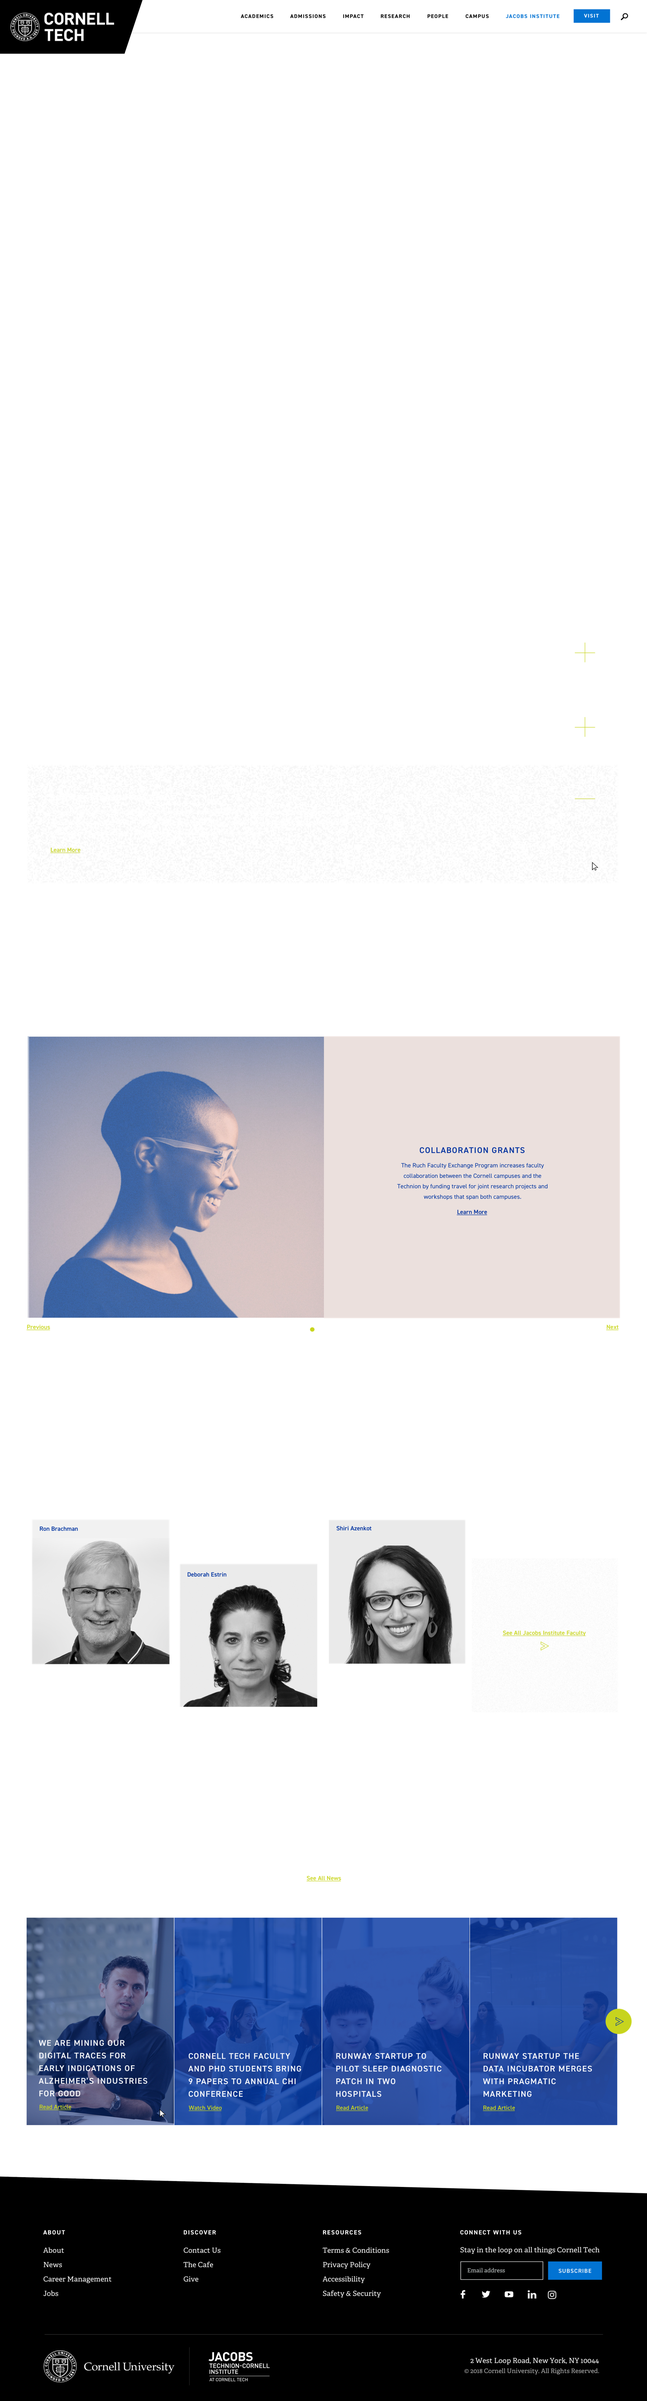
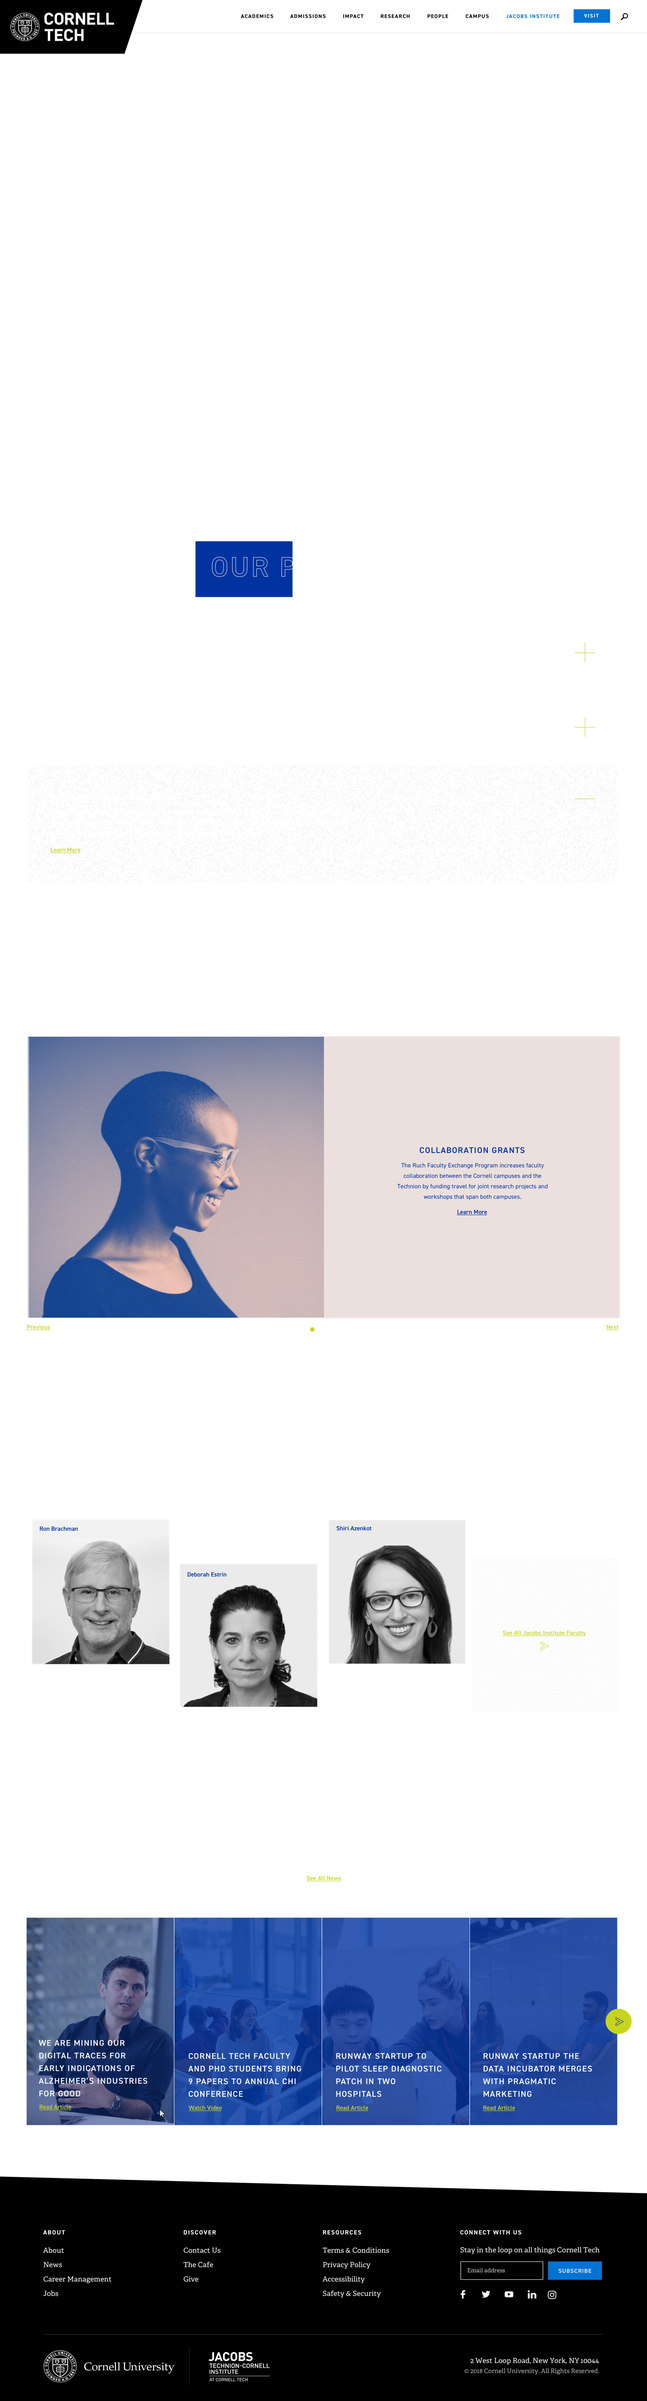
Jacobs Institute V1.2

Changed region(s): [[0.0624, 0.4369, 0.3433, 0.5618], [0.2809, 0.2185, 0.4681, 0.2497], [0.0312, 0.4057, 0.156, 0.4681]]

diff --git a/jacobsinstitute/index.hyperesources/index_hype_generated_script.js b/jacobsinstitute/index.hyperesources/index_hype_generated_script.js
@@ -3,5 +3,5 @@
 (function(){(function k(){function l(a,b,d){var c=!1;null==window[a]&&(null==window[b]?(window[b]=[],window[b].push(k),a=document.getElementsByTagName("head")[0],b=document.createElement("script"),c=h,false==!0&&(c=""),b.type="text/javascript",b.src=c+"/"+d,a.appendChild(b)):window[b].push(k),c=!0);return c}var h="index.hyperesources",c="index",e="index_hype_container";if(false==!1)try{for(var f=document.getElementsByTagName("script"),
 a=0;a<f.length;a++){var b=f[a].src,d=null!=b?b.indexOf("/index_hype_generated_script.js"):-1;if(-1!=d){h=b.substr(0,d);break}}}catch(n){}if(false==!1&&(a=navigator.userAgent.match(/MSIE (\d+\.\d+)/),a=parseFloat(a&&a[1])||null,a=l("HYPE_598","HYPE_dtl_598",!0==(null!=a&&10>a||false==!0)?"HYPE-598.full.min.js":"HYPE-598.thin.min.js"),false==!0&&(a=a||l("HYPE_w_598","HYPE_wdtl_598","HYPE-598.waypoints.min.js")),a))return;f=window.HYPE.documents;
 if(null!=f[c]){b=1;a=c;do c=""+a+"-"+b++;while(null!=f[c]);d=document.getElementsByTagName("div");b=!1;for(a=0;a<d.length;a++)if(d[a].id==e&&null==d[a].getAttribute("HYP_dn")){var b=1,g=e;do e=""+g+"-"+b++;while(null!=document.getElementById(e));d[a].id=e;b=!0;break}if(!1==b)return}b=[];b=[{name:"untitledFunction",source:"function(hypeDocument, element, event) {\t\n\t\t\n\t\t\n\t\t\tmenu = hypeDocument.getElementById('menu');\n\n\twindow.onscroll = function(){\n\t\tvar scroll = window.pageYOffset || (document.body.scrollTop || document.documentElement.scrollTop);\n\t\t\n\t\tvar menuDelta = 100;\n\t\tvar menuFadeOut = 9000;\n\n\t\tif (scroll > menuDelta){\n\t\t\tmenu.classList.add('sticky')\n\t\t}\n\t\tif (scroll <= menuDelta){\n\t\t\tmenu.classList.remove('sticky')\n\t\t}\n\t\tif (scroll > menuFadeOut){\n\t\t\tmenu.classList.remove('sticky')\n\t\t}\n\t};\t\n\t\n\n\n}",identifier:"11"},{name:"untitledFunction2",source:"function(hypeDocument, element, event) {\t\n\t\t\n\t\t\tmenu = hypeDocument.getElementById('menub');\n\n\twindow.onscroll = function(){\n\t\tvar scroll = window.pageYOffset || (document.body.scrollTop || document.documentElement.scrollTop);\n\t\t\n\t\tvar menubDelta = 100;\n\t\tvar menubFadeOut = 14000;\n\n\t\tif (scroll > menubDelta){\n\t\t\tmenub.classList.add('sticky')\n\t\t}\n\t\tif (scroll <= menubDelta){\n\t\t\tmenub.classList.remove('sticky')\n\t\t}\n\t\tif (scroll > menubFadeOut){\n\t\t\tmenub.classList.remove('sticky')\n\t\t}\n\t};\t\n}",identifier:"186"},{name:"untitledFunction3",source:"function(hypeDocument, element, event) {\t\n\tlockLogo = hypeDocument.getElementById('lockLogo');\n\n\twindow.onscroll = function(){\n\tvar scroll3 = window.pageYOffset || (document.body.scrollTop || document.documentElement.scrollTop);\n        \n        var menuDelta3 = 1233;\n        var menuRelease = 4178;\n\n        if (scroll3 > menuDelta3){\n            lockLogo.classList.add('sticky3')\n        }\n        if (scroll3 <= menuDelta3){\n            lockLogo.classList.remove('sticky3')\n            lockLogo.classList.remove('stickyRelease')\n        }\n        \n        if (scroll3 <= menuRelease){\n            lockLogo.classList.remove('stickyRelease')\n        }\n        \n        if (scroll3 > menuRelease){\n            lockLogo.classList.remove('sticky3')\n            lockLogo.classList.add('stickyRelease')\n        }\n     };\n}",identifier:"563"}];d={};g={};for(a=0;a<b.length;a++)try{g[b[a].identifier]=b[a].name,d[b[a].name]=eval("(function(){return "+b[a].source+"})();")}catch(m){window.console&&window.console.log(m),d[b[a].name]=
-function(){}}a=new HYPE_598(c,e,{"3":{p:1,n:"Meet%20Our%20People%20Who%20We%20Are.png",g:"546",o:true,t:"@1x"},"12":{p:1,n:"Flag%20Icon.png",g:"544",o:true,t:"@1x"},"21":{p:1,n:"Man.jpg",g:"579",o:true,t:"@1x"},"4":{p:1,n:"Meet%20Our%20People%20Who%20We%20Are_2x.png",g:"546",o:true,t:"@2x"},"30":{n:"Video.mp4",g:"589",t:"video/mp4"},"13":{p:1,n:"Flag%20Icon_2x.png",g:"544",o:true,t:"@2x"},"5":{p:1,n:"Navigation.png",g:"524",o:true,t:"@1x"},"22":{p:1,n:"Man_2x.jpg",g:"579",o:true,t:"@2x"},"6":{p:1,n:"Navigation_2x.png",g:"524",o:true,t:"@2x"},"14":{p:1,n:"Jacobs%20T%20Blue_w%20lockup.png",g:"552",t:"@1x"},"7":{p:1,n:"Intro.png",g:"532",o:true,t:"@1x"},"23":{p:1,n:"Newscard_FirstCard.png",g:"582",o:true,t:"@1x"},"8":{p:1,n:"Intro_2x.png",g:"532",o:true,t:"@2x"},"15":{p:1,n:"StickyNav.png",g:"535",o:true,t:"@1x"},"24":{p:1,n:"Newscard_FirstCard_2x.png",g:"582",o:true,t:"@2x"},"9":{p:1,n:"Woman.png",g:"557",o:true,t:"@1x"},"16":{p:1,n:"StickyNav_2x.png",g:"535",o:true,t:"@2x"},"25":{p:1,n:"Man.png",g:"530",o:true,t:"@1x"},"17":{p:1,n:"Pioners%20In%20Amereica.png",g:"542",o:true,t:"@1x"},"26":{p:1,n:"Man_2x.png",g:"530",o:true,t:"@2x"},"18":{p:1,n:"Pioners%20In%20Amereica_2x.png",g:"542",o:true,t:"@2x"},"27":{p:1,n:"Jacobs%20Institute%201440.png",g:"564",o:true,t:"@1x"},"19":{p:1,n:"Stocksy_comp_584112.jpg",g:"576",o:true,t:"@1x"},"28":{p:1,n:"Jacobs%20Institute%201440_2x.png",g:"564",o:true,t:"@2x"},"-1":{n:"PIE.htc"},"29":{n:"Untitled_Small.mov",g:"589",t:"video/quicktime"},"-2":{n:"blank.gif"},"10":{p:1,n:"Woman_2x.png",g:"557",o:true,t:"@2x"},"0":{p:1,n:"Texture.png",g:"550",o:true,t:"@1x"},"1":{p:1,n:"Texture_2x.png",g:"550",o:true,t:"@2x"},"11":{p:1,n:"Bar.png",g:"541",t:"@1x"},"2":{p:1,n:"Pasted.jpg",g:"567",o:true,t:"@1x"},"20":{p:1,n:"Stocksy_comp_584112_2x.jpg",g:"576",o:true,t:"@2x"}},h,[],d,[{n:"Homepage",o:"1",X:[0]}],[{A:{a:[{p:4,h:"11"},{p:4,h:"563"}]},o:"3",p:"600px",cA:false,Y:1440,Z:5390,c:"#FFFFFF",L:[],bY:1,d:1440,U:{},T:{"309":{i:"309",n:"Navigation",z:0,b:[],a:[],f:30},kTimelineDefaultIdentifier:{i:"kTimelineDefaultIdentifier",n:"Main Timeline",z:21.06,b:[],a:[{y:0,p:1,i:"Video Track",z:21.06,o:"625",f:"a"}],f:30},"555":{i:"555",n:"CardHover",z:0.04,b:[],a:[{f:"c",y:0,z:0.04,i:"d",e:428,s:412,o:"599"},{f:"c",y:0,z:0.04,i:"b",e:-16,s:0,o:"599"},{f:"c",y:0,z:0.04,i:"cR",e:1,s:0.90000000000000002,o:"602"},{f:"c",y:0,z:0.04,i:"cQ",e:1,s:0.90000000000000002,o:"602"},{f:"c",y:0,z:0.04,i:"e",e:1,s:0,o:"601"},{y:0,i:"cY",s:"0",z:0,o:"599",f:"c"},{f:"c",y:0,z:0.04,i:"b",e:207,s:220,o:"598"},{f:"c",y:0,z:0.04,i:"e",e:1,s:0,o:"603"},{f:"c",y:0,z:0.04,i:"e",e:1,s:0,o:"604"},{f:"c",y:0,z:0.04,i:"b",e:17,s:38,o:"600"},{f:"c",y:0,z:0,i:"e",e:1,s:0,o:"599"},{y:0,i:"e",s:1,z:0,o:"599",f:"c"},{y:0.04,i:"d",s:428,z:0,o:"599",f:"c"},{y:0.04,i:"cR",s:1,z:0,o:"602",f:"c"},{y:0.04,i:"cQ",s:1,z:0,o:"602",f:"c"},{y:0.04,i:"b",s:-16,z:0,o:"599",f:"c"},{y:0.04,i:"b",s:207,z:0,o:"598",f:"c"},{y:0.04,i:"e",s:1,z:0,o:"601",f:"c"},{y:0.04,i:"b",s:17,z:0,o:"600",f:"c"},{y:0.04,i:"e",s:1,z:0,o:"603",f:"c"},{y:0.04,i:"e",s:1,z:0,o:"604",f:"c"}],f:30},"560":{i:"560",n:"Man Woman",z:0.07,b:[],a:[{f:"c",y:0.03,z:0.04,i:"e",e:0,s:1,o:"610"},{f:"c",y:0.03,z:0.04,i:"e",e:1,s:0,o:"611"},{y:0.07,i:"e",s:1,z:0,o:"611",f:"c"},{y:0.07,i:"e",s:0,z:0,o:"610",f:"c"}],f:30},"585":{i:"585",n:"News Card Hover",z:0.02,b:[],a:[{f:"c",y:0,z:0.02,i:"e",e:0.5,s:0.20000000000000001,o:"620"},{y:0.02,i:"e",s:0.5,z:0,o:"620",f:"c"}],f:30}},bZ:180,O:["625","591","613","612","614","615","616","607","595","611","609","593","594","610","617","606","602","599","604","601","597","605","600","596","592","598","603","608","618","619","623","620","624","621","622"],n:"Untitled Layout","_":0,v:{"602":{h:"552",p:"no-repeat",x:"visible",a:-19,q:"100% 100%",b:-245,j:"absolute",dB:"img",z:1,k:"div",bF:"601",d:673,c:503,cQ:0.94999999999999996,e:0.036886867088607597,r:"inline",cR:0.94999999999999996},"621":{k:"div",x:"hidden",c:329,d:460,z:4,a:59,j:"absolute",b:4315},"594":{h:"567",p:"no-repeat",x:"visible",a:37,q:"100% 100%",b:0,j:"absolute",bF:"593",z:2,k:"div",dB:"img",d:733,c:1440,r:"inline"},"616":{b:7,z:7,K:"None",c:99,L:"None",d:19,aS:3,M:0,e:0.59999999999999998,bD:"none",N:0,aT:3,dB:"button",O:0,g:"#333333",aU:3,P:0,bF:"612",aV:3,j:"absolute",k:"div",aI:4,aJ:4,aK:4,X:-0.32954499999999998,aL:4,A:"#A0A0A0",Y:19,B:"#A0A0A0",Z:"break-word",r:"inline",C:"#A0A0A0",D:"#A0A0A0",t:11,aA:{a:[{p:0}]},F:"center",v:"normal",G:"#FFFFFF",aP:"pointer",w:"Concept B",x:"visible",I:"None",a:726,y:"preserve",J:"None"},"603":{h:"546",p:"no-repeat",x:"visible",a:27,q:"100% 100%",b:375,j:"absolute",cY:"0",z:2,k:"div",dB:"img",d:12,bF:"597",c:164,e:0,r:"inline"},"622":{h:"582",p:"no-repeat",x:"visible",a:32,q:"100% 100%",b:274,j:"absolute",dB:"img",z:3,k:"div",bF:"621",d:156,c:233,r:"inline",e:1},"595":{h:"564",p:"no-repeat",x:"visible",a:0,q:"100% 100%",b:40,j:"absolute",dB:"img",z:2,k:"div",c:1442,d:5351,r:"inline",cQ:1,cR:1},"617":{c:32,d:31,I:"None",J:"None",K:"None",L:"None",aP:"pointer",M:0,N:0,A:"#D8DDE4",x:"visible",aA:{a:[{p:0}]},B:"#D8DDE4",j:"absolute",O:0,dB:"button",z:16,C:"#D8DDE4",D:"#D8DDE4",k:"div",P:0,a:1362,b:267},"604":{h:"550",p:"no-repeat",x:"visible",a:0,q:"100% 100%",b:-16,j:"absolute",dB:"img",z:8,k:"div",bF:"597",d:430,c:333,r:"inline",e:0},"623":{c:346,d:530,I:"None",J:"None",K:"None",g:"#0133A0",L:"None",M:0,N:0,bF:"621",A:"#D8DDE4",x:"visible",j:"absolute",B:"#D8DDE4",k:"div",O:0,C:"#D8DDE4",z:1,P:0,D:"#D8DDE4",a:-18,b:-16},"596":{c:1440,d:4553,I:"None",J:"None",K:"None",g:"#0133A0",L:"None",M:0,N:0,A:"#D8DDE4",x:"visible",j:"absolute",B:"#D8DDE4",P:0,k:"div",C:"#D8DDE4",z:1,O:0,D:"#D8DDE4",a:0,b:838},"610":{h:"530",p:"no-repeat",x:"visible",a:60,q:"100% 100%",b:33,j:"absolute",dB:"img",z:1,k:"div",bF:"609",d:715,c:549,r:"inline",e:1},"618":{h:"576",p:"no-repeat",x:"visible",a:-30,q:"100% 100%",b:-5,j:"absolute",bF:"619",z:1,k:"div",dB:"img",d:634,c:950,r:"inline"},"605":{h:"541",p:"no-repeat",x:"visible",a:57,q:"100% 100%",b:726,j:"absolute",dB:"img",z:14,k:"div",c:1321,d:414,r:"inline"},"624":{c:326,d:458,I:"None",J:"None",K:"None",L:"None",M:0,N:0,bF:"621",A:"#D8DDE4",x:"visible",j:"absolute",B:"#D8DDE4",k:"div",O:0,C:"#D8DDE4",z:4,P:0,D:"#D8DDE4",aC:{a:[{b:"585",p:3,z:true,symbolOid:"2"}]},a:0,aD:{a:[{b:"585",p:3,z:false,symbolOid:"2"}]},b:0},"597":{k:"div",x:"visible",c:331,d:414,z:17,a:58,j:"absolute",b:726},"611":{h:"557",p:"no-repeat",x:"visible",a:0,q:"100% 100%",b:0,j:"absolute",cY:"0",z:2,k:"div",dB:"img",d:776,bF:"609",c:600,e:0,r:"inline"},"619":{c:659,d:626,I:"Solid",J:"Solid",K:"Solid",L:"Solid",M:1,N:1,A:"#FFFFFF",x:"hidden",j:"absolute",B:"#FFFFFF",k:"div",O:1,C:"#FFFFFF",z:3,P:1,D:"#FFFFFF",a:62,b:2350},"606":{h:"532",p:"no-repeat",x:"visible",a:190,q:"100% 100%",b:344,j:"absolute",dB:"img",z:11,k:"div",c:430,d:205,r:"inline"},"625":{aR:true,x:"visible",bE:"589",a:-87,b:-346,j:"absolute",bF:"593",c:1786,k:"video",z:5,d:1116,aO:false,aQ:true,aH:true},"598":{h:"542",p:"no-repeat",x:"visible",a:27,q:"100% 100%",b:220,j:"absolute",bF:"597",z:3,k:"div",dB:"img",d:152,c:271,r:"inline"},"612":{x:"visible",k:"div",c:1440,d:40,z:13,e:1,a:0,j:"absolute",b:0},"607":{h:"524",p:"no-repeat",x:"visible",a:-1,q:"100% 100%",b:40,j:"absolute",dB:"img",z:15,k:"div",c:1443,d:124,r:"inline"},"591":{h:"535",p:"no-repeat",x:"visible",i:"menu",q:"100% 100%",b:-95,a:1,j:"absolute",z:19,k:"div",dB:"img",d:73,c:1440,r:"inline",aP:"pointer"},"599":{c:329,d:412,I:"Solid",cY:"0",e:0,J:"Solid",K:"Solid",g:"#0133A0",L:"Solid",M:1,N:1,bF:"597",A:"#FFFFFF",x:"visible",j:"absolute",B:"#FFFFFF",k:"div",O:1,C:"#FFFFFF",z:1,P:1,D:"#FFFFFF",a:0,b:-32},"613":{c:1440,d:40,I:"None",J:"None",K:"None",g:"#D3D5D7",L:"None",M:0,N:0,bF:"612",A:"#D8DDE4",x:"visible",j:"absolute",B:"#D8DDE4",k:"div",O:0,C:"#D8DDE4",z:1,P:0,D:"#D8DDE4",a:0,b:0},"600":{h:"544",p:"no-repeat",x:"visible",a:24,q:"100% 100%",b:38,j:"absolute",bF:"597",z:7,k:"div",dB:"img",d:52,c:49,r:"inline"},"608":{h:"552",p:"no-repeat",x:"visible",a:354,q:"100% 100%",b:1265,j:"absolute",i:"lockLogo",z:20,k:"div",dB:"img",d:938,c:728,r:"inline",e:0.050000000000000003},"592":{c:329,d:250,I:"None",J:"None",K:"None",L:"None",M:0,N:0,A:"#D8DDE4",x:"visible",j:"absolute",B:"#D8DDE4",k:"div",O:0,C:"#D8DDE4",z:18,P:0,D:"#D8DDE4",aC:{a:[{b:"555",p:3,z:true,symbolOid:"2"}]},a:58,aD:{a:[{b:"555",p:3,z:false,symbolOid:"2"}]},b:888},"614":{G:"#CA3725",aU:8,aV:8,r:"inline",s:"Helvetica,Arial,Sans-Serif",t:12,Z:"break-word",v:"bold",w:"PROTOTYPE NAVIGATION<br>",bF:"612",A:"#CA3725",x:"visible",yy:"nowrap",B:"#CA3725",y:"preserve",j:"absolute",C:"#CA3725",z:5,k:"div",D:"#CA3725",aS:8,aT:8,a:34,b:5},"601":{x:"hidden",k:"div",c:330,d:414,z:4,e:0,a:1,j:"absolute",bF:"597",b:0},"609":{k:"div",x:"visible",c:609,d:776,z:12,a:618,j:"absolute",b:112},"620":{h:"579",p:"no-repeat",x:"visible",a:-48,q:"100% 100%",b:0,j:"absolute",dB:"img",z:2,k:"div",bF:"621",d:465,c:698,r:"inline",e:0.20000000000000001},"593":{k:"div",x:"hidden",c:1518,d:729,z:10,r:"inline",a:-39,j:"absolute",b:115},"615":{b:7,z:6,K:"None",c:99,L:"None",d:19,aS:3,M:0,e:0.29999999999999999,bD:"none",N:0,aT:3,dB:"button",O:0,g:"#333333",aU:3,P:0,bF:"612",aV:3,j:"absolute",aI:4,k:"div",aJ:4,aK:4,X:-0.32954499999999998,aL:4,A:"#A0A0A0",Y:19,B:"#A0A0A0",Z:"break-word",r:"inline",C:"#A0A0A0",D:"#A0A0A0",t:11,F:"center",v:"normal",G:"#FFFFFF",aP:"pointer",w:"Concept A<br><br>",x:"visible",I:"None",a:611,y:"preserve",J:"None"}}}],{},g,{},null,false,true,-1,true,true,false,true);f[c]=a.API;document.getElementById(e).setAttribute("HYP_dn",
+function(){}}a=new HYPE_598(c,e,{"3":{p:1,n:"Meet%20Our%20People%20Who%20We%20Are.png",g:"546",o:true,t:"@1x"},"12":{p:1,n:"Flag%20Icon.png",g:"544",o:true,t:"@1x"},"21":{p:1,n:"Man.jpg",g:"579",o:true,t:"@1x"},"4":{p:1,n:"Meet%20Our%20People%20Who%20We%20Are_2x.png",g:"546",o:true,t:"@2x"},"30":{p:1,n:"Jacobs%20Institute%201440_2x.png",g:"564",o:true,t:"@2x"},"13":{p:1,n:"Flag%20Icon_2x.png",g:"544",o:true,t:"@2x"},"5":{p:1,n:"Navigation.png",g:"524",o:true,t:"@1x"},"22":{p:1,n:"Man_2x.jpg",g:"579",o:true,t:"@2x"},"6":{p:1,n:"Navigation_2x.png",g:"524",o:true,t:"@2x"},"31":{p:1,n:"deb.jpg",g:"591",o:true,t:"@1x"},"14":{p:1,n:"Jacobs%20T%20Blue_w%20lockup.png",g:"552",t:"@1x"},"7":{p:1,n:"Intro.png",g:"532",o:true,t:"@1x"},"23":{p:1,n:"Newscard_FirstCard.png",g:"582",o:true,t:"@1x"},"32":{p:1,n:"deb_2x.jpg",g:"591",o:true,t:"@2x"},"15":{p:1,n:"StickyNav.png",g:"535",o:true,t:"@1x"},"8":{p:1,n:"Intro_2x.png",g:"532",o:true,t:"@2x"},"24":{p:1,n:"Newscard_FirstCard_2x.png",g:"582",o:true,t:"@2x"},"9":{p:1,n:"Woman.png",g:"557",o:true,t:"@1x"},"33":{p:1,n:"Estrin_Deborah_007hr5-1.jpg",g:"593",o:true,t:"@1x"},"16":{p:1,n:"StickyNav_2x.png",g:"535",o:true,t:"@2x"},"25":{p:1,n:"Man.png",g:"530",o:true,t:"@1x"},"34":{p:1,n:"Estrin_Deborah_007hr5-1_2x.jpg",g:"593",o:true,t:"@2x"},"17":{p:1,n:"Pioners%20In%20Amereica.png",g:"542",o:true,t:"@1x"},"26":{p:1,n:"Man_2x.png",g:"530",o:true,t:"@2x"},"35":{p:1,n:"deb%20text.png",g:"595",o:true,t:"@1x"},"18":{p:1,n:"Pioners%20In%20Amereica_2x.png",g:"542",o:true,t:"@2x"},"27":{n:"Untitled_Small.mov",g:"589",t:"video/quicktime"},"36":{p:1,n:"deb%20text_2x.png",g:"595",o:true,t:"@2x"},"19":{p:1,n:"Stocksy_comp_584112.jpg",g:"576",o:true,t:"@1x"},"28":{n:"Video.mp4",g:"589",t:"video/mp4"},"-1":{n:"PIE.htc"},"29":{p:1,n:"Jacobs%20Institute%201440.png",g:"564",o:true,t:"@1x"},"-2":{n:"blank.gif"},"10":{p:1,n:"Woman_2x.png",g:"557",o:true,t:"@2x"},"0":{p:1,n:"Texture.png",g:"550",o:true,t:"@1x"},"1":{p:1,n:"Texture_2x.png",g:"550",o:true,t:"@2x"},"11":{p:1,n:"Bar.png",g:"541",t:"@1x"},"2":{p:1,n:"Pasted.jpg",g:"567",o:true,t:"@1x"},"20":{p:1,n:"Stocksy_comp_584112_2x.jpg",g:"576",o:true,t:"@2x"}},h,[],d,[{n:"Homepage",o:"1",X:[0]}],[{A:{a:[{p:4,h:"11"},{p:4,h:"563"}]},o:"3",p:"600px",cA:false,Y:1440,Z:5390,c:"#FFFFFF",L:[],bY:1,d:1440,U:{},T:{"602":{i:"602",n:"Deb",z:0.03,b:[],a:[{y:0,i:"cY",s:"0",z:0,o:"638",f:"c"},{f:"c",y:0,z:0.03,i:"e",e:1,s:0,o:"638"},{y:0.03,i:"e",s:1,z:0,o:"638",f:"c"}],f:30},"309":{i:"309",n:"Navigation",z:0,b:[],a:[],f:30},kTimelineDefaultIdentifier:{i:"kTimelineDefaultIdentifier",n:"Main Timeline",z:21.06,b:[],a:[{y:0,p:1,i:"Video Track",z:21.06,o:"630",f:"a"}],f:30},"555":{i:"555",n:"CardHover",z:0.04,b:[],a:[{f:"c",y:0,z:0.04,i:"d",e:428,s:412,o:"625"},{f:"c",y:0,z:0.04,i:"b",e:-16,s:0,o:"625"},{f:"c",y:0,z:0.04,i:"cR",e:1,s:0.90000000000000002,o:"627"},{f:"c",y:0,z:0.04,i:"cQ",e:1,s:0.90000000000000002,o:"627"},{f:"c",y:0,z:0.04,i:"e",e:1,s:0,o:"626"},{y:0,i:"cY",s:"0",z:0,o:"625",f:"c"},{f:"c",y:0,z:0.04,i:"b",e:207,s:220,o:"621"},{f:"c",y:0,z:0.04,i:"e",e:1,s:0,o:"624"},{f:"c",y:0,z:0.04,i:"e",e:1,s:0,o:"623"},{f:"c",y:0,z:0.04,i:"b",e:17,s:38,o:"622"},{f:"c",y:0,z:0,i:"e",e:1,s:0,o:"625"},{y:0,i:"e",s:1,z:0,o:"625",f:"c"},{y:0.04,i:"d",s:428,z:0,o:"625",f:"c"},{y:0.04,i:"cR",s:1,z:0,o:"627",f:"c"},{y:0.04,i:"cQ",s:1,z:0,o:"627",f:"c"},{y:0.04,i:"b",s:-16,z:0,o:"625",f:"c"},{y:0.04,i:"b",s:207,z:0,o:"621",f:"c"},{y:0.04,i:"e",s:1,z:0,o:"626",f:"c"},{y:0.04,i:"b",s:17,z:0,o:"622",f:"c"},{y:0.04,i:"e",s:1,z:0,o:"624",f:"c"},{y:0.04,i:"e",s:1,z:0,o:"623",f:"c"}],f:30},"560":{i:"560",n:"Man Woman",z:0.07,b:[],a:[{f:"c",y:0.03,z:0.04,i:"e",e:0,s:1,o:"613"},{f:"c",y:0.03,z:0.04,i:"e",e:1,s:0,o:"614"},{y:0.07,i:"e",s:1,z:0,o:"614",f:"c"},{y:0.07,i:"e",s:0,z:0,o:"613",f:"c"}],f:30},"585":{i:"585",n:"News Card Hover",z:0.02,b:[],a:[{f:"c",y:0,z:0.02,i:"e",e:0.5,s:0.20000000000000001,o:"609"},{y:0.02,i:"e",s:0.5,z:0,o:"609",f:"c"}],f:30}},bZ:180,O:["630","628","633","632","634","635","636","610","611","614","612","629","631","613","637","618","627","625","623","626","620","619","622","617","603","621","624","604","616","615","638","639","641","640","642","607","609","608","605","606"],n:"Untitled Layout","_":0,v:{"634":{G:"#CA3725",aU:8,aV:8,r:"inline",s:"Helvetica,Arial,Sans-Serif",t:12,Z:"break-word",v:"bold",w:"PROTOTYPE NAVIGATION<br>",bF:"632",A:"#CA3725",x:"visible",yy:"nowrap",B:"#CA3725",y:"preserve",j:"absolute",C:"#CA3725",z:5,k:"div",D:"#CA3725",aS:8,aT:8,a:34,b:5},"621":{h:"542",p:"no-repeat",x:"visible",a:27,q:"100% 100%",b:220,j:"absolute",bF:"620",z:3,k:"div",dB:"img",d:152,c:271,r:"inline"},"629":{k:"div",x:"hidden",c:1518,d:729,z:10,r:"inline",a:-39,j:"absolute",b:115},"640":{h:"595",p:"no-repeat",x:"visible",a:13,q:"100% 100%",b:14,j:"absolute",bF:"641",z:4,k:"div",dB:"img",d:11,c:87,r:"inline"},"616":{h:"576",p:"no-repeat",x:"visible",a:-30,q:"100% 100%",b:-5,j:"absolute",bF:"615",z:1,k:"div",dB:"img",d:634,c:950,r:"inline"},"635":{b:7,z:6,K:"None",c:99,L:"None",d:19,aS:3,M:0,e:0.29999999999999999,bD:"none",N:0,aT:3,dB:"button",O:0,g:"#333333",aU:3,P:0,bF:"632",aV:3,j:"absolute",aI:4,k:"div",aJ:4,aK:4,X:-0.32954499999999998,aL:4,A:"#A0A0A0",Y:19,B:"#A0A0A0",Z:"break-word",r:"inline",C:"#A0A0A0",D:"#A0A0A0",t:11,F:"center",v:"normal",G:"#FFFFFF",aP:"pointer",w:"Concept A<br><br>",x:"visible",I:"None",a:611,y:"preserve",J:"None"},"603":{c:329,d:250,I:"None",J:"None",K:"None",L:"None",M:0,N:0,A:"#D8DDE4",x:"visible",j:"absolute",B:"#D8DDE4",k:"div",O:0,C:"#D8DDE4",z:17,P:0,D:"#D8DDE4",aC:{a:[{b:"555",p:3,z:true,symbolOid:"2"}]},a:58,aD:{a:[{b:"555",p:3,z:false,symbolOid:"2"}]},b:888},"622":{h:"544",p:"no-repeat",x:"visible",a:24,q:"100% 100%",b:38,j:"absolute",bF:"620",z:7,k:"div",dB:"img",d:52,c:49,r:"inline"},"641":{k:"div",x:"hidden",c:307,d:321,z:22,a:400,j:"absolute",b:3524},"617":{c:1440,d:4553,I:"None",J:"None",K:"None",g:"#0133A0",L:"None",M:0,N:0,A:"#D8DDE4",x:"visible",j:"absolute",B:"#D8DDE4",P:0,k:"div",C:"#D8DDE4",z:1,O:0,D:"#D8DDE4",a:0,b:838},"636":{b:7,z:7,K:"None",c:99,L:"None",d:19,aS:3,M:0,e:0.59999999999999998,bD:"none",N:0,aT:3,dB:"button",O:0,g:"#333333",aU:3,P:0,bF:"632",aV:3,j:"absolute",k:"div",aI:4,aJ:4,aK:4,X:-0.32954499999999998,aL:4,A:"#A0A0A0",Y:19,B:"#A0A0A0",Z:"break-word",r:"inline",C:"#A0A0A0",D:"#A0A0A0",t:11,aA:{a:[{p:5,j:"https://invis.io/QJSQ90H5A6P#/371120048_Jacobs-Inst-Home-Concept-B",k:true}]},F:"center",v:"normal",G:"#FFFFFF",aP:"pointer",w:"Concept B",x:"visible",I:"None",a:726,y:"preserve",J:"None"},"604":{h:"552",p:"no-repeat",x:"visible",a:354,q:"100% 100%",b:1265,j:"absolute",i:"lockLogo",z:21,k:"div",dB:"img",d:938,c:728,r:"inline",e:0.050000000000000003},"623":{h:"550",p:"no-repeat",x:"visible",a:0,q:"100% 100%",b:-16,j:"absolute",dB:"img",z:8,k:"div",bF:"620",d:430,c:333,r:"inline",e:0},"642":{c:305,d:258,I:"None",J:"None",K:"None",L:"None",M:0,N:0,bF:"641",A:"#D8DDE4",x:"visible",j:"absolute",B:"#D8DDE4",k:"div",O:0,C:"#D8DDE4",z:5,P:0,D:"#D8DDE4",aC:{a:[{b:"602",p:3,z:true,symbolOid:"2"}]},a:0,aD:{a:[{b:"602",p:3,z:false,symbolOid:"2"}]},b:61},"610":{h:"524",p:"no-repeat",x:"visible",a:-1,q:"100% 100%",b:40,j:"absolute",dB:"img",z:14,k:"div",c:1443,d:124,r:"inline"},"618":{h:"532",p:"no-repeat",x:"visible",a:190,q:"100% 100%",b:344,j:"absolute",dB:"img",z:11,k:"div",c:430,d:205,r:"inline"},"637":{c:32,d:31,I:"None",J:"None",K:"None",L:"None",aP:"pointer",M:0,N:0,A:"#D8DDE4",x:"visible",aA:{a:[{p:0}]},B:"#D8DDE4",j:"absolute",O:0,dB:"button",z:15,C:"#D8DDE4",D:"#D8DDE4",k:"div",P:0,a:1362,b:267},"605":{k:"div",x:"hidden",c:329,d:460,z:4,a:59,j:"absolute",b:4315},"624":{h:"546",p:"no-repeat",x:"visible",a:27,q:"100% 100%",b:375,j:"absolute",cY:"0",z:2,k:"div",dB:"img",d:12,bF:"620",c:164,e:0,r:"inline"},"611":{h:"564",p:"no-repeat",x:"visible",a:0,q:"100% 100%",b:40,j:"absolute",dB:"img",z:2,k:"div",c:1442,d:5351,r:"inline",cQ:1,cR:1},"619":{h:"541",p:"no-repeat",x:"visible",a:57,q:"100% 100%",b:726,j:"absolute",dB:"img",z:13,k:"div",c:1321,d:414,r:"inline"},"630":{aR:"1",x:"visible",bE:"589",a:-87,b:-346,j:"absolute",bF:"629",c:1786,k:"video",z:5,d:1116,aO:"0",aQ:"1",aH:"1"},"638":{h:"591",p:"no-repeat",x:"visible",a:0,q:"100% 100%",b:0,j:"absolute",cY:"0",z:2,k:"div",dB:"img",d:329,bF:"641",c:307,e:0,r:"inline"},"606":{h:"582",p:"no-repeat",x:"visible",a:32,q:"100% 100%",b:274,j:"absolute",dB:"img",z:3,k:"div",bF:"605",d:156,c:233,r:"inline",e:1},"625":{c:329,d:412,I:"Solid",cY:"0",e:0,J:"Solid",K:"Solid",g:"#0133A0",L:"Solid",M:1,N:1,bF:"620",A:"#FFFFFF",x:"visible",j:"absolute",B:"#FFFFFF",k:"div",O:1,C:"#FFFFFF",z:1,P:1,D:"#FFFFFF",a:0,b:-32},"612":{k:"div",x:"visible",c:609,d:776,z:12,a:618,j:"absolute",b:112},"631":{h:"567",p:"no-repeat",x:"visible",a:37,q:"100% 100%",b:0,j:"absolute",bF:"629",z:2,k:"div",dB:"img",d:733,c:1440,r:"inline"},"639":{h:"593",p:"no-repeat",x:"visible",a:0,q:"100% 100%",b:0,j:"absolute",bF:"641",z:1,k:"div",dB:"img",d:329,c:307,r:"inline"},"607":{c:346,d:530,I:"None",J:"None",K:"None",g:"#0133A0",L:"None",M:0,N:0,bF:"605",A:"#D8DDE4",x:"visible",j:"absolute",B:"#D8DDE4",k:"div",O:0,C:"#D8DDE4",z:1,P:0,D:"#D8DDE4",a:-18,b:-16},"626":{x:"hidden",k:"div",c:330,d:414,z:4,e:0,a:1,j:"absolute",bF:"620",b:0},"613":{h:"530",p:"no-repeat",x:"visible",a:60,q:"100% 100%",b:33,j:"absolute",dB:"img",z:1,k:"div",bF:"612",d:715,c:549,r:"inline",e:1},"632":{x:"visible",k:"div",c:1440,d:40,z:23,e:1,a:0,j:"absolute",b:0},"608":{c:326,d:458,I:"None",J:"None",K:"None",L:"None",M:0,N:0,bF:"605",A:"#D8DDE4",x:"visible",j:"absolute",B:"#D8DDE4",k:"div",O:0,C:"#D8DDE4",z:4,P:0,D:"#D8DDE4",aC:{a:[{b:"585",p:3,z:true,symbolOid:"2"}]},a:0,aD:{a:[{b:"585",p:3,z:false,symbolOid:"2"}]},b:0},"627":{h:"552",p:"no-repeat",x:"visible",a:-19,q:"100% 100%",b:-245,j:"absolute",dB:"img",z:1,k:"div",bF:"626",d:673,c:503,cQ:0.94999999999999996,e:0.036886867088607597,r:"inline",cR:0.94999999999999996},"614":{h:"557",p:"no-repeat",x:"visible",a:0,q:"100% 100%",b:0,j:"absolute",cY:"0",z:2,k:"div",dB:"img",d:776,bF:"612",c:600,e:0,r:"inline"},"633":{c:1440,d:40,I:"None",J:"None",K:"None",g:"#D3D5D7",L:"None",M:0,N:0,bF:"632",A:"#D8DDE4",x:"visible",j:"absolute",B:"#D8DDE4",k:"div",O:0,C:"#D8DDE4",z:1,P:0,D:"#D8DDE4",a:0,b:0},"609":{h:"579",p:"no-repeat",x:"visible",a:-48,q:"100% 100%",b:0,j:"absolute",dB:"img",z:2,k:"div",bF:"605",d:465,c:698,r:"inline",e:0.20000000000000001},"620":{k:"div",x:"visible",c:331,d:414,z:16,a:58,j:"absolute",b:726},"628":{h:"535",p:"no-repeat",x:"visible",i:"menu",q:"100% 100%",b:-95,a:1,j:"absolute",z:24,k:"div",dB:"img",d:73,c:1440,r:"inline",aP:"pointer"},"615":{c:659,d:626,I:"Solid",J:"Solid",K:"Solid",L:"Solid",M:1,N:1,A:"#FFFFFF",x:"hidden",j:"absolute",B:"#FFFFFF",k:"div",O:1,C:"#FFFFFF",z:3,P:1,D:"#FFFFFF",a:62,b:2350}}}],{},g,{},null,false,true,-1,true,true,false,true);f[c]=a.API;document.getElementById(e).setAttribute("HYP_dn",
 c);a.z_o(this.body)})();})();

diff --git a/jacobsinstitute/index.html b/jacobsinstitute/index.html
@@ -84,7 +84,7 @@
 	<!-- copy these lines to your document: -->
 
 	<div id="index_hype_container" style="margin:auto;position:relative;width:1440px;height:5390px;overflow:hidden;">
-		<script type="text/javascript" charset="utf-8" src="index.hyperesources/index_hype_generated_script.js?20470"></script>
+		<script type="text/javascript" charset="utf-8" src="index.hyperesources/index_hype_generated_script.js?96950"></script>
 	</div>
 
 	<!-- end copy -->
